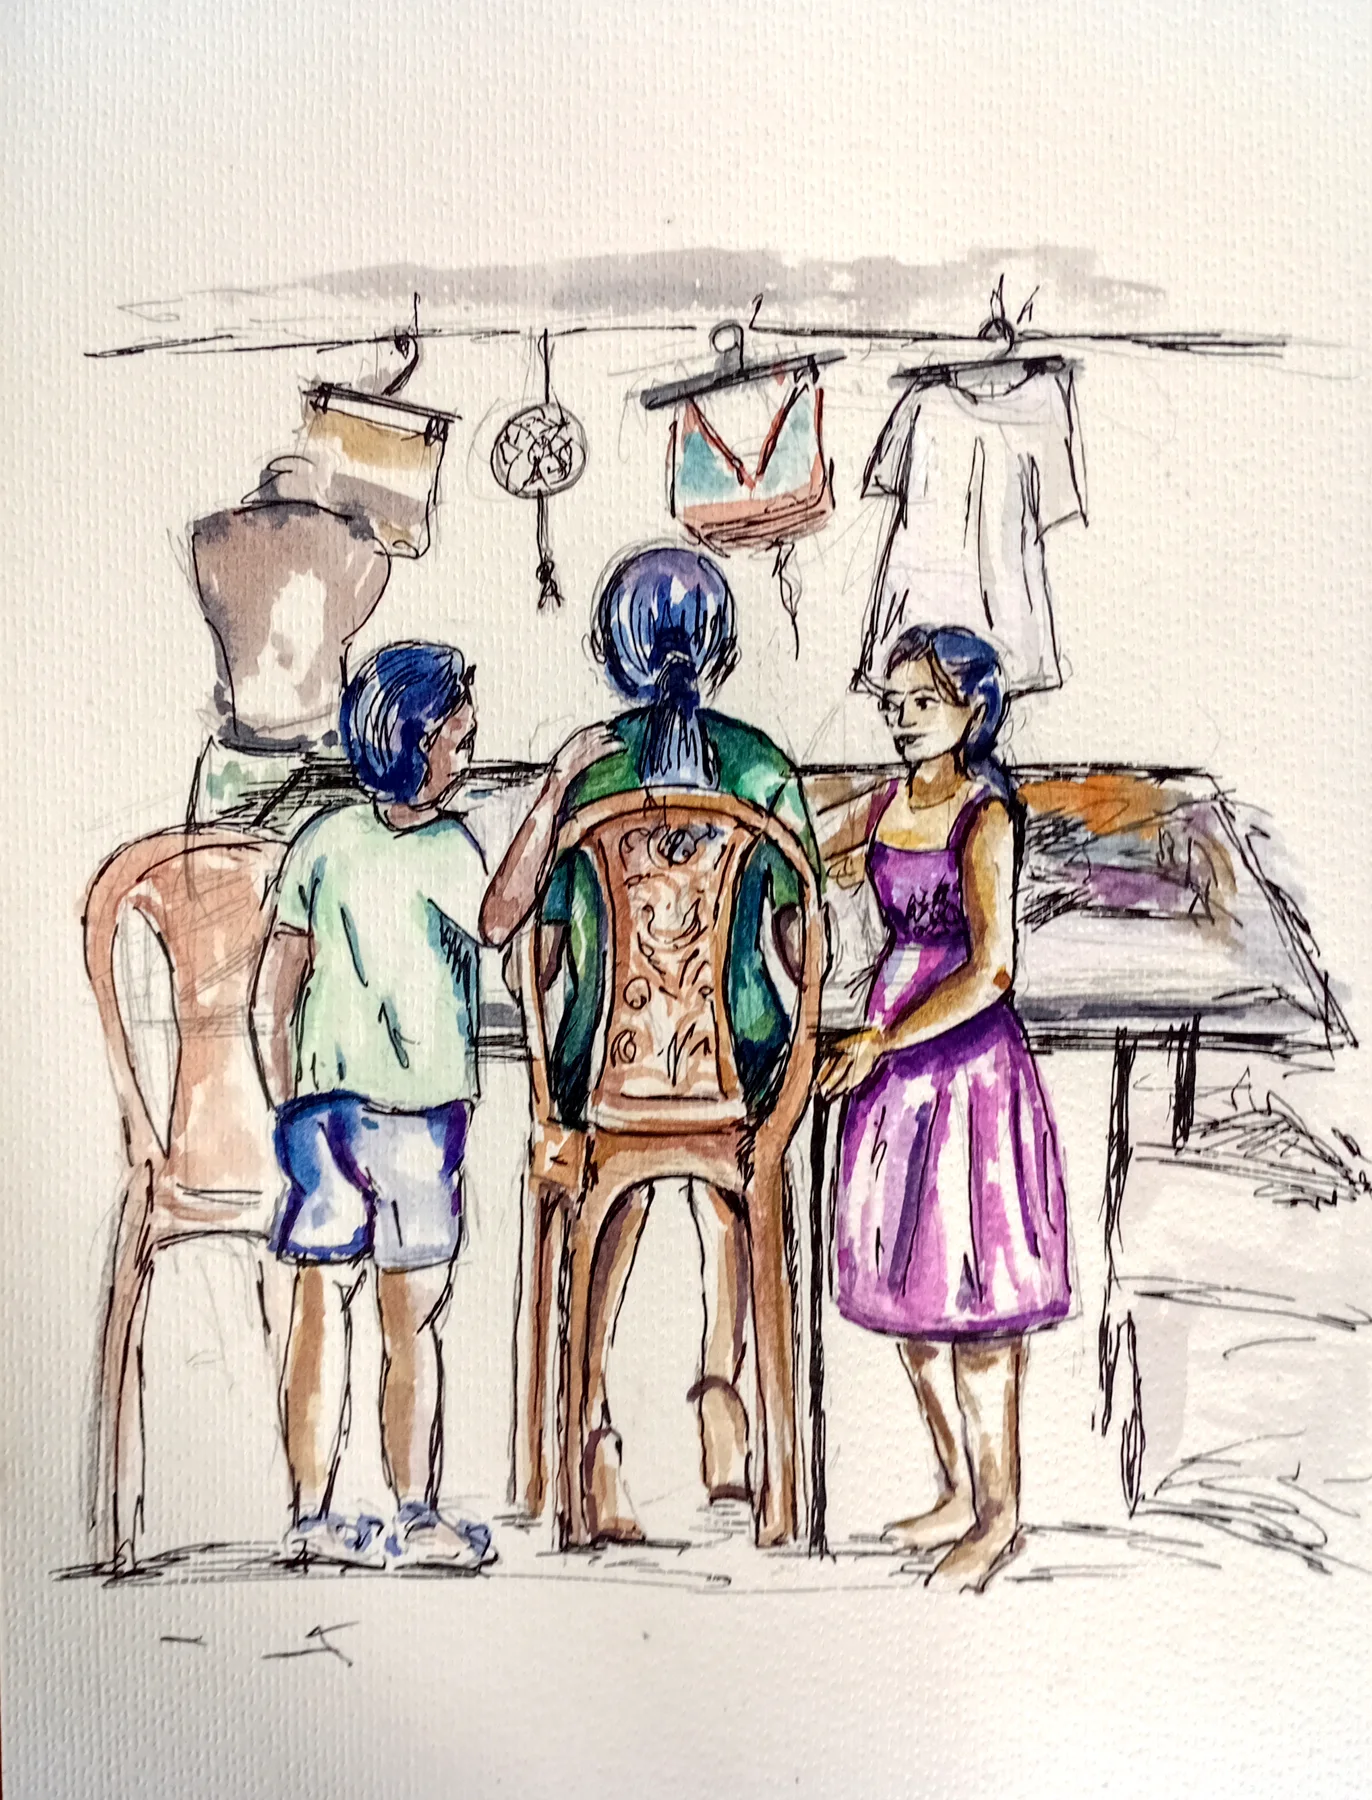
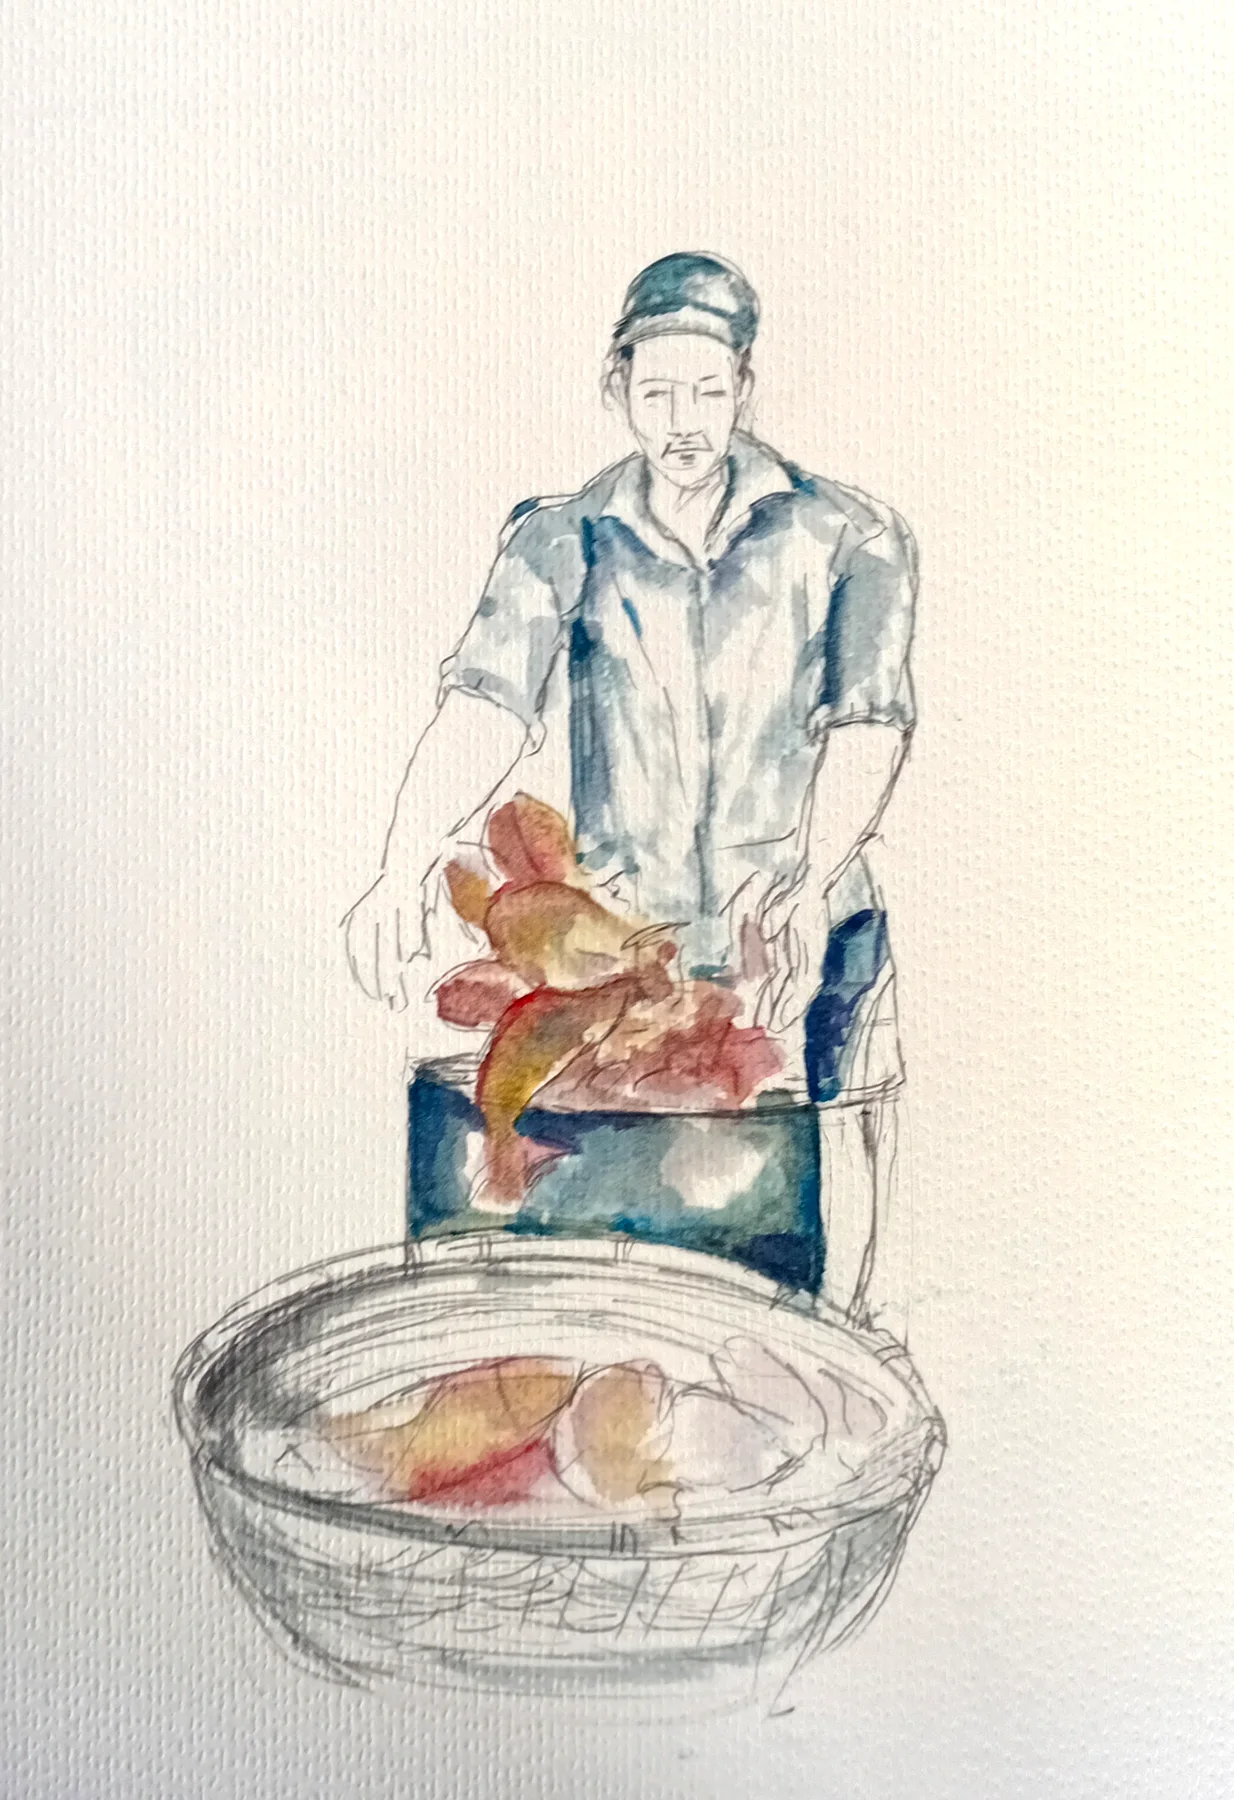
update

diff --git a/src/app/data/artworks.js b/src/app/data/artworks.js
@@ -215,17 +215,10 @@ export const artworks = [
     "title": "People in the city"
   },
   {
-    "description": "Sketched during the People in the City workshop at Galle Fort. I tried to capture people walking, waiting and living their everyday moments in the city.",
+    "description": "Sketched during Astrid's People in the City session at Galle Fort.",
     "event": "meet-up-06",
     "filename": "4.webp",
     "id": "USKG17-4",
-    "title": "People in the city"
-  },
-  {
-    "description": "Sketched during Astrid's People in the City session at Galle Fort.",
-    "event": "meet-up-06",
-    "filename": "5.webp",
-    "id": "USKG17-5",
     "title": "People in the city"
   },
   {
